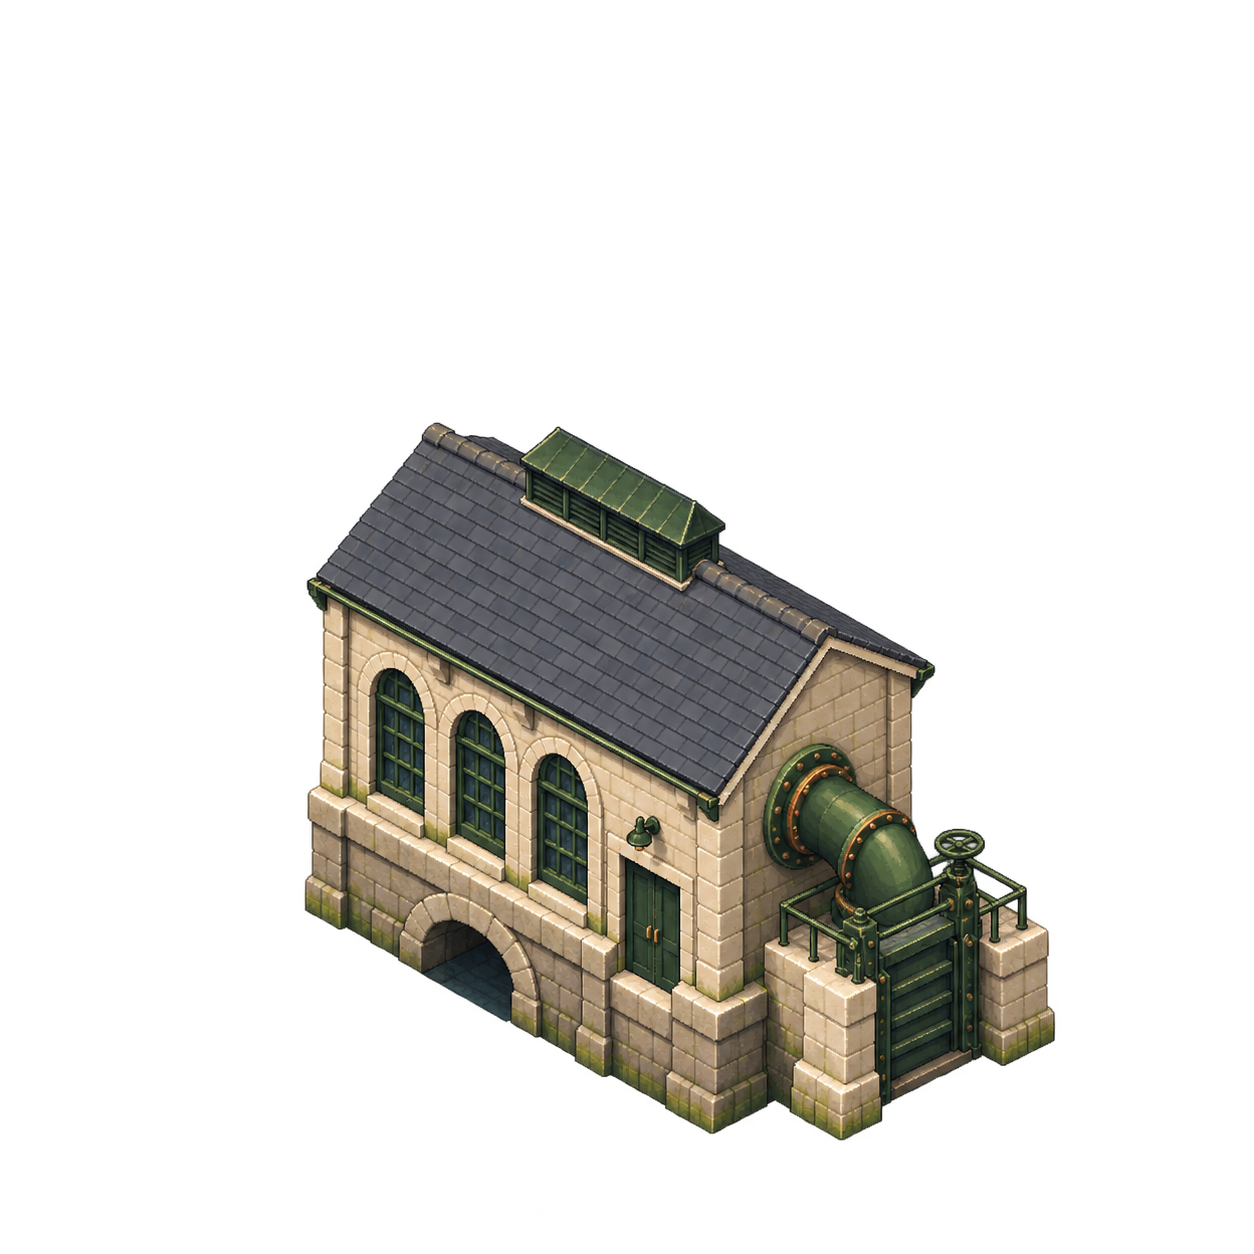
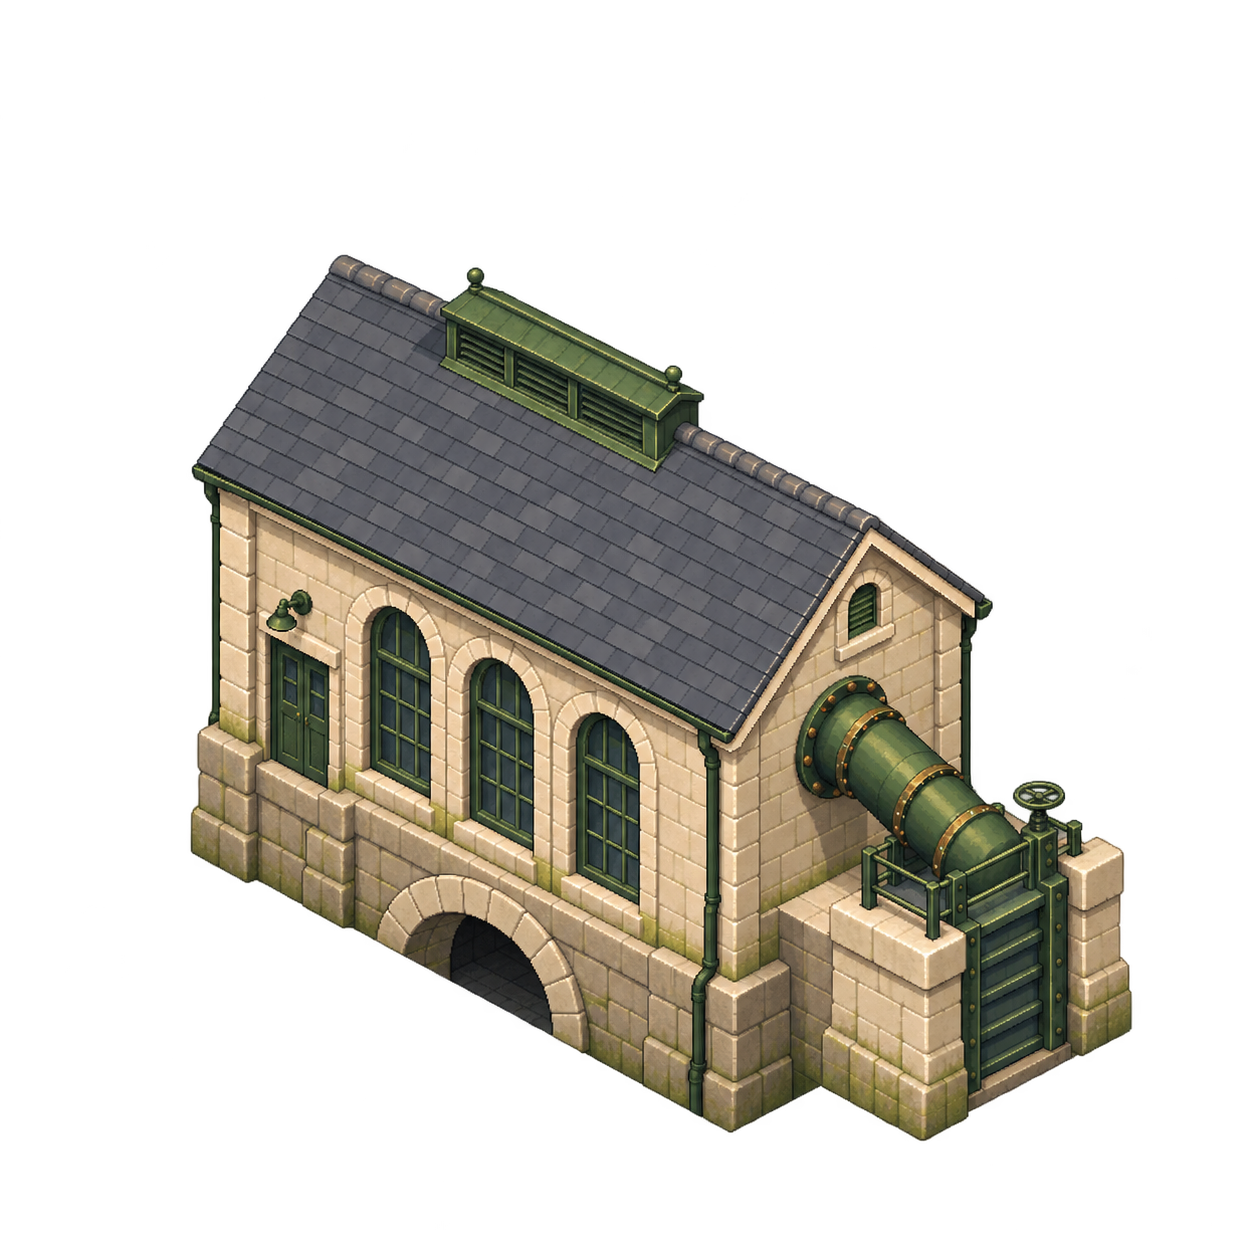
Art: Hydro plant, new design, r0 on the review-2 guide (stage 1)

Changed region(s): [[0.1244, 0.1866, 0.9019, 0.933]]

diff --git a/assets/source/rotations-535/hydro_plant/REVIEW.md b/assets/source/rotations-535/hydro_plant/REVIEW.md
@@ -7,11 +7,11 @@ All four extracted guides were 1024 × 1024 and all four plans named `hydro_plan
 The guides remain outside the repository, at `G:/DEV/Terepasztal/guides-535`
 (absolute references are in prompts.json).
 
-| View | Attempt | Returned | Base width | Allowed width | Result |
-| --- | --- | --- | --- | --- | --- |
-| r0 | 1 | 1254 × 1254 | 923 px | 458.00–506.99 px | Width FAIL |
-| r0 | 2 | 1254 × 1254 | 882 px outer; automatic 828 px | 458.00–506.99 px | Width FAIL |
-| r0 | 3 | 1254 × 1254 | 749 px | 458.00–506.99 px | Width FAIL; closest |
+| View | Attempt | Returned    | Base width                     | Allowed width    | Result              |
+| ---- | ------- | ----------- | ------------------------------ | ---------------- | ------------------- |
+| r0   | 1       | 1254 × 1254 | 923 px                         | 458.00–506.99 px | Width FAIL          |
+| r0   | 2       | 1254 × 1254 | 882 px outer; automatic 828 px | 458.00–506.99 px | Width FAIL          |
+| r0   | 3       | 1254 × 1254 | 749 px                         | 458.00–506.99 px | Width FAIL; closest |
 
 Target width: 482.50 px. The automatic left corner of attempt 2 fell inside a
 quoin step. The outer corners were read by eye and checked against the alpha
@@ -49,3 +49,39 @@ reported failures in route worker jobs, pipeline data, and building ground data
 INCOMPLETE, with failures observed; it is not a passing test run. No unrelated
 test or source files were changed to address these failures. The Art scope check
 passed, and all three raw PNGs and the closest copy passed byte-integrity checks.
+
+## Second queue run, 21 October 2026 — stage 1 stopped
+
+The author's width decision now makes width a measurement. Three new guide edits,
+attempts 4–6, used only the r0 guide, style board, and unchanged old Hydro plant.
+All returned 1254 × 1254. Old-art hash matched; the guide is 1024 square and its
+plan names hydro_plant. No turned views were painted.
+
+| Attempt | Whole base width | k (held 482.496 px) | Foot ratio | Whole-base eye slopes | checkFile camera error | Overshoot (guide px) | Height/base | White / amber |
+| ------- | ---------------- | ------------------- | ---------- | --------------------- | ---------------------- | -------------------- | ----------- | ------------- |
+| 4       | 970              | .497419             | 1.38329    | .53108 / .13022       | 2.6°                   | 44.269               | .39794      | 3526 / 4      |
+| 5       | 940              | .513294             | 1.35589    | .52126 / .25313       | 1.7°                   | 31.001               | .41170      | 1799 / 4      |
+| 6       | 1047             | .460837             | 1.39041    | .55008 / .17808       | 3.5°                   | 37.438               | .52531      | 3225 / 1      |
+
+The intake projects beyond the hall's straight end-wall foot. Automatic fitting
+intersects the two apparent base runs below the actual painted near corner; those
+readings are retained in prompts.json alongside by-eye readings. Automatic slopes
+were .55216/.46135, .52226/.52839, and .59653/.51151 respectively. Attempt 5's
+automatic camera passed, but its actual ground outline is not a plain rectangle.
+All three miss the height target .82 (allowed .697–.943) and footprint allowance
+16 guide px when placed using the actual near corner. Whole-base ratios pass;
+this does not excuse the projecting intake or nonstraight right foot. Camera was
+not more than 3° off in all three automatic readings. Highlights are reports only;
+old art counted 4019 white and 0 amber by the same method.
+
+Attempt 5 is copied byte-for-byte to hydro_plant-r0.png as the closest by camera
+and footprint, explicitly kept:false. All returned raw images and exact prompts
+are preserved. **fallback: blockout scaffold**. Core must provide the clean Blender
+hydro blockout; no additional free attempt or stage 2 was made. The r0 grass preview
+was viewed through exported drawLook after the CLI refused its non-age filename;
+preview is uncommitted. Beside the pump, the hall is distinct (three arches, lantern,
+penstock, tailrace, no flywheel/chimney), but geometry tests still refuse it.
+
+New measuring script syntax, scoped formatting, raw-byte/kept-copy integrity and
+staged-diff checks passed. Earlier repository baseline failures were not rerun or
+changed for these raster/record additions.
